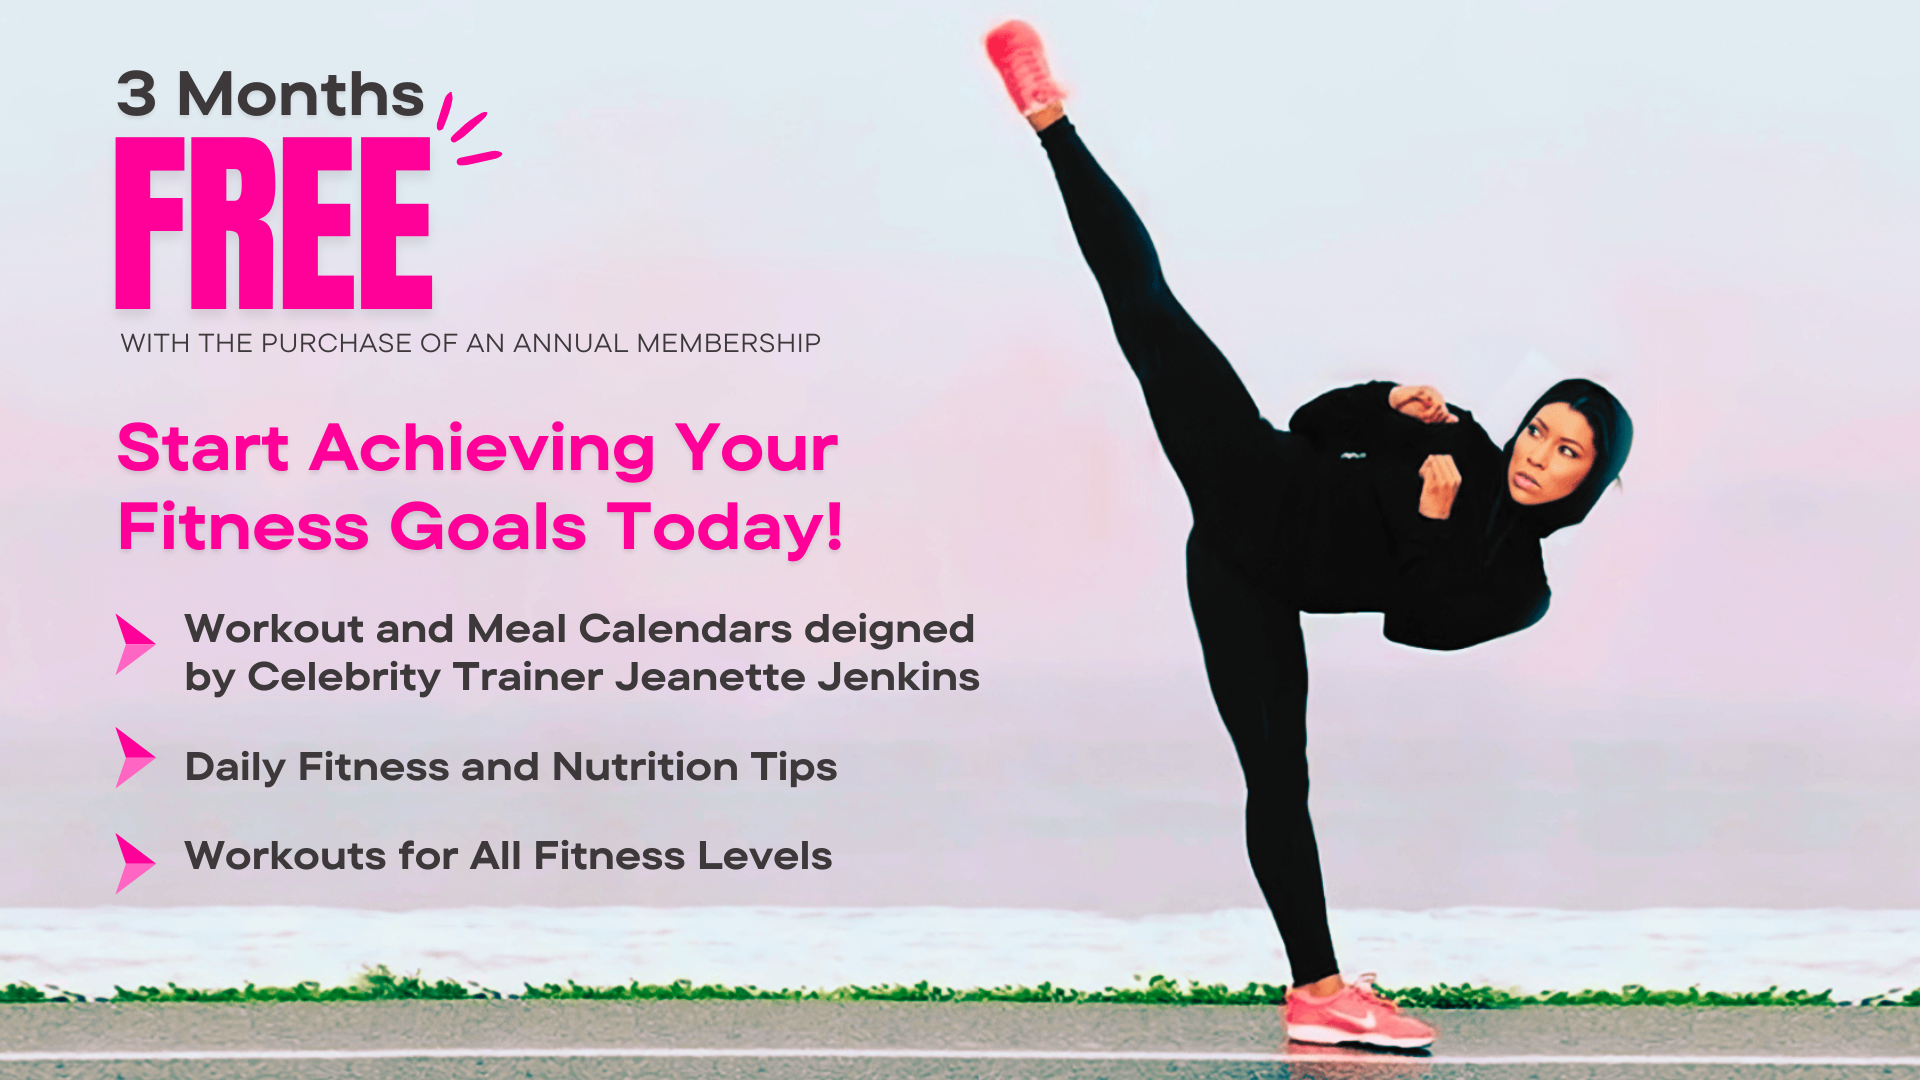
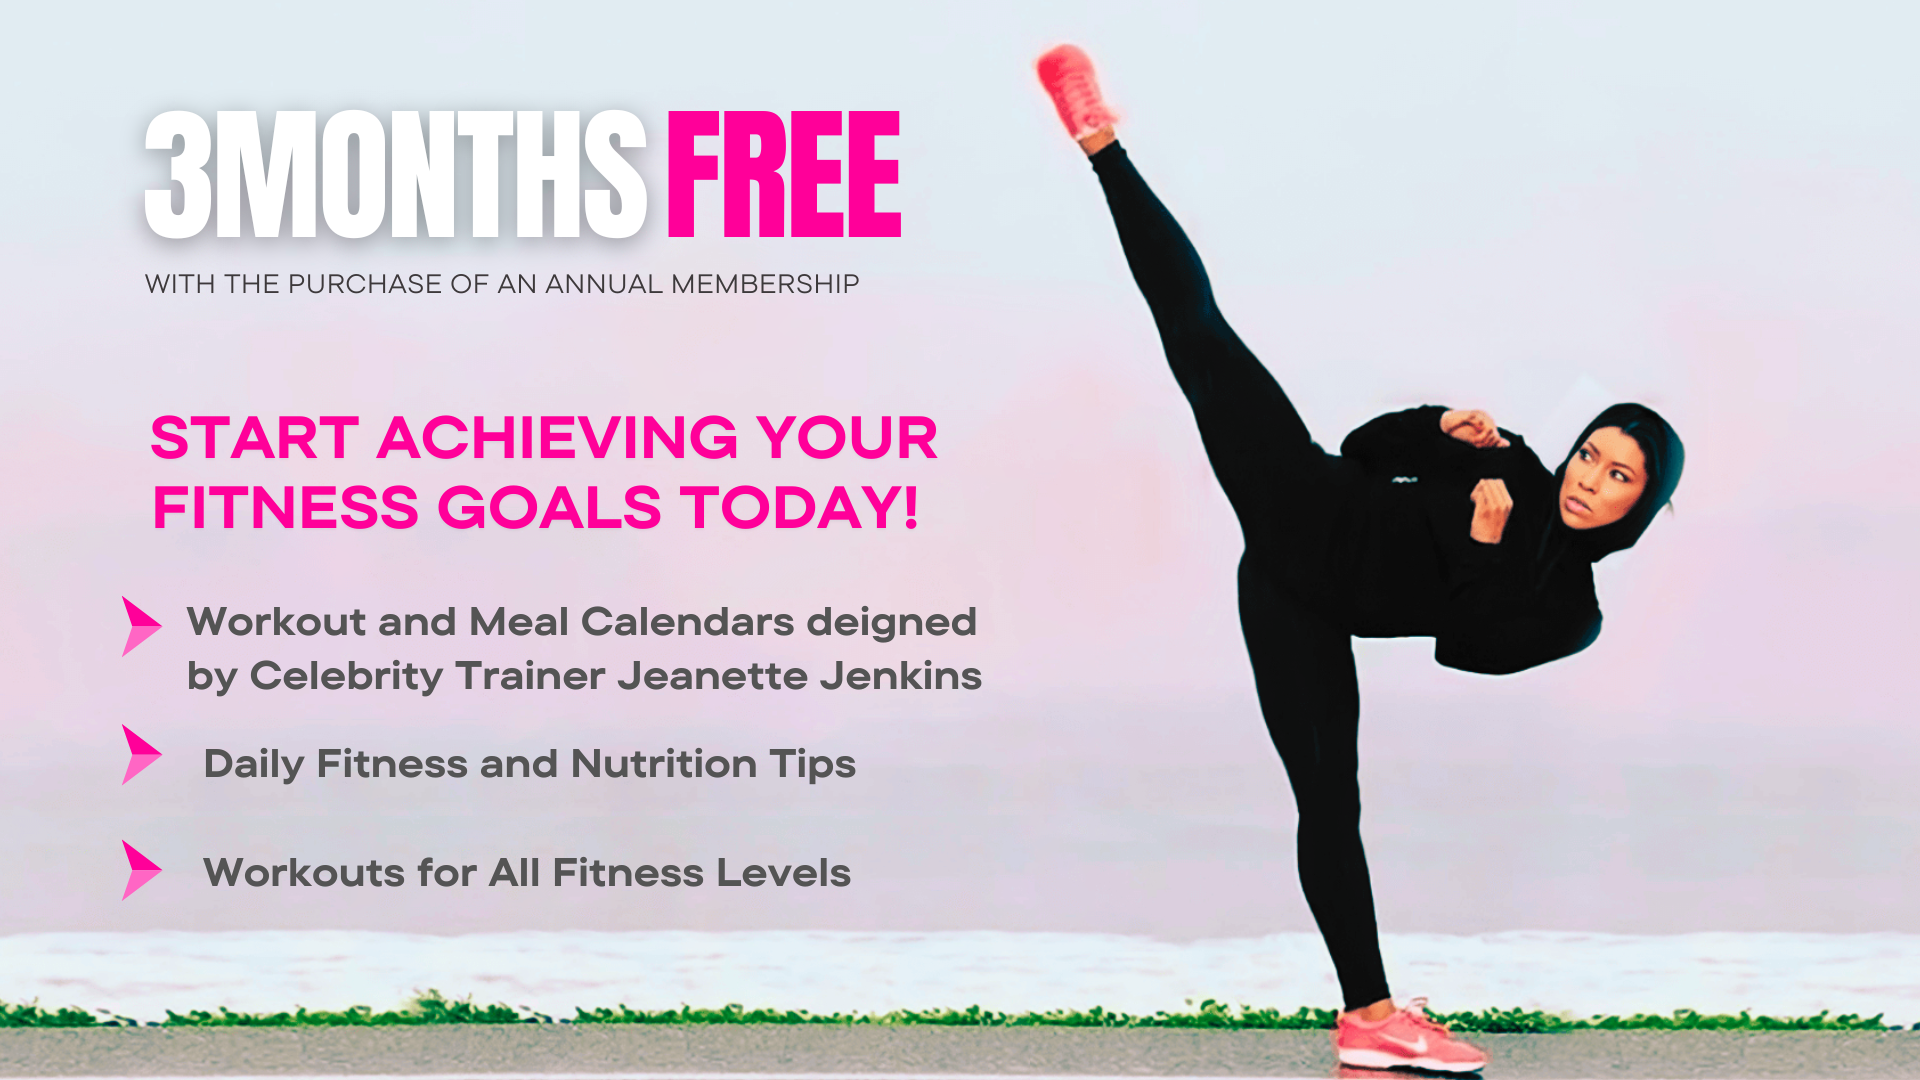
free img add

diff --git a/css/style.css b/css/style.css
@@ -286,9 +286,6 @@ ul {
   background-color: #fe018a;
   padding: 70px 0px;
 }
-.sortable-wrap .bootcamp-start {
-  text-align: center;
-}
 .sortable-wrap .bootcamp-start h3 {
   color: #fff;
   font-size: 58px;
@@ -300,19 +297,27 @@ ul {
 }
 .sortable-wrap .bootcamp-start h1 {
   color: #fff;
-  font-size: 130px;
+  font-size: 80px;
   font-weight: bold;
   font-family: "Inter-Bold";
   text-transform: capitalize;
   margin-bottom: 0px;
   margin-top: 0px;
+  position: relative;
+  display: inline-block;
+}
+.sortable-wrap .bootcamp-start h1 span {
+  position: absolute;
+  width: 190px;
+  top: -30px;
+  right: -210px;
 }
 .sortable-wrap .bootcamp-start p {
   color: #fff;
-  font-size: 40px;
+  font-size: 32px;
   font-weight: bold;
   text-transform: capitalize;
-  letter-spacing: 4px;
+  letter-spacing: 2px;
   margin-bottom: 0px;
 }
 
@@ -519,7 +524,22 @@ ul {
     font-size: 46px;
   }
   .sortable-wrap .bootcamp-start h1 {
-    font-size: 100px;
+    font-size: 60px;
+  }
+  .sortable-wrap .bootcamp-start h1 span {
+    position: absolute;
+    width: 150px;
+    right: -170px;
+  }
+  .sortable-wrap .bootcamp-start p {
+    font-size: 28px;
+  }
+  .sortable-wrap .price-btn a {
+    font-size: 28px;
+    padding: 20px 40px;
+  }
+  .subscribe-dec h2 {
+    font-size: 105px;
   }
 }
 
@@ -527,6 +547,9 @@ ul {
   .footer-section ul li a,
   .footer-section p {
     font-size: 14px;
+  }
+  .annual-membership .annual-membership-inner h2 {
+    font-size: 95px;
   }
 }
 @media only screen and (max-width: 992px) {
@@ -543,6 +566,10 @@ ul {
     font-size: 24px;
     padding: 12px 30px;
   }
+  .sortable-wrap .bootcamp-start .bootcamp-inner {
+    text-align: center;
+  }
+
   .sortable-wrap .bootcamp-start h1 {
     font-size: 80px;
   }
@@ -649,7 +676,9 @@ ul {
     margin-top: 20px;
   }
   .annual-membership .annual-membership-inner h3 {
-    font-size: 18px;
+    font-size: 26px;
+    margin-top: 10px;
+    margin-bottom: 0px;
   }
   .bootcamp-section .head-title h1,
   .head-title h1 {
@@ -685,14 +714,17 @@ ul {
   .story-section .stroy-wrap {
     border: none;
   }
+  .sortable-wrap .bootcamp-start .bootcamp-inner {
+    text-align: start;
+  }
   .subscribe-dec h1 {
     font-size: 50px;
   }
   .subscribe-dec h2 {
-    font-size: 95px;
+    font-size: 75px;
   }
   .subscribe-dec h3 {
-    font-size: 40px;
+    font-size: 35px;
   }
   .subscribe-dec p {
     font-size: 18px;
@@ -805,11 +837,18 @@ ul {
     letter-spacing: 2px;
   }
   .sortable-wrap .bootcamp-start h1 {
-    font-size: 65px;
+    font-size: 45px;
+  }
+  .sortable-wrap .bootcamp-start h1 span {
+    position: absolute;
+    width: 120px;
+    right: -130px;
+    top: -25px;
   }
   .sortable-wrap .bootcamp-start p {
-    font-size: 22px;
+    font-size: 20px;
     letter-spacing: 1px;
+    margin-top: 10px;
   }
 
   .bootcamp-section ul li {
@@ -892,6 +931,16 @@ ul {
   .header-section .brand-logo {
     width: 150px;
   }
+  .sortable-wrap .bootcamp-start h1 {
+    font-size: 36px;
+  }
+  .sortable-wrap .bootcamp-start h1 span {
+    width: 100px;
+    right: -110px;
+  }
+  .annual-membership .annual-membership-inner h2 {
+    font-size: 36px;
+  }
 }
 @media only screen and (max-width: 374px) {
   .subscribe-dec h2 {
@@ -901,7 +950,25 @@ ul {
     font-size: 22px;
   }
   .sortable-wrap .bootcamp-start h1 {
-    font-size: 52px;
+    font-size: 36px;
+  }
+  .sortable-wrap .bootcamp-start h1 span {
+    width: 80px;
+    right: -90px;
+    top: -13px;
+  }
+  .sortable-wrap .bootcamp-start p {
+    font-size: 16px;
+  }
+  .sortable-wrap .price-btn a {
+    font-size: 24px;
+    padding: 15px 30px;
+    margin-top: 0px;
+  }
+  .annual-membership .annual-membership-inner .membership-btn a{
+    font-size: 24px;
+    padding: 15px 30px;
+    margin-top: 20px;
   }
   .sortable-wrap .bootcamp-start p {
     font-size: 20px;

diff --git a/index.html b/index.html
@@ -74,13 +74,26 @@
     <section class="sortable-wrap">
       <div class="container">
         <div class="bootcamp-start">
-          <!-- <strong>BEST VALUE</strong> -->
-          <h3>OUR MOST POPULAR MEMBERSHIP!</h3>
-          <h1>3 MONTHS FREE</h1>
-          <p>With An Annual Membership</p>
-        </div>
-        <div class="price-btn">
-          <a href="https://thehollywoodtrainerclub.com/sign-up/">Join Now!</a>
+          <div class="row">
+            <div class="col-lg-8">
+              <div class="bootcamp-inner">
+                <h1>
+                  3 MONTHS
+                  <span
+                    ><img src="img/free.svg" alt="free" class="img-fluid"
+                  /></span>
+                </h1>
+                <p>WHEN YOU JOIN FOR A YEAR!</p>
+              </div>
+            </div>
+            <div class="col-lg-4">
+              <div class="price-btn">
+                <a href="https://thehollywoodtrainerclub.com/sign-up/"
+                  >Join Now!</a
+                >
+              </div>
+            </div>
+          </div>
         </div>
       </div>
     </section>
@@ -534,7 +547,7 @@
             data-wow-duration="0.4s"
             data-wow-delay="0.2s"
           >
-            With The Purchase Of An <span>Annual Membership</span>
+            <span>With An Annual Membership </span>
           </h3>
           <div class="membership-btn">
             <a
